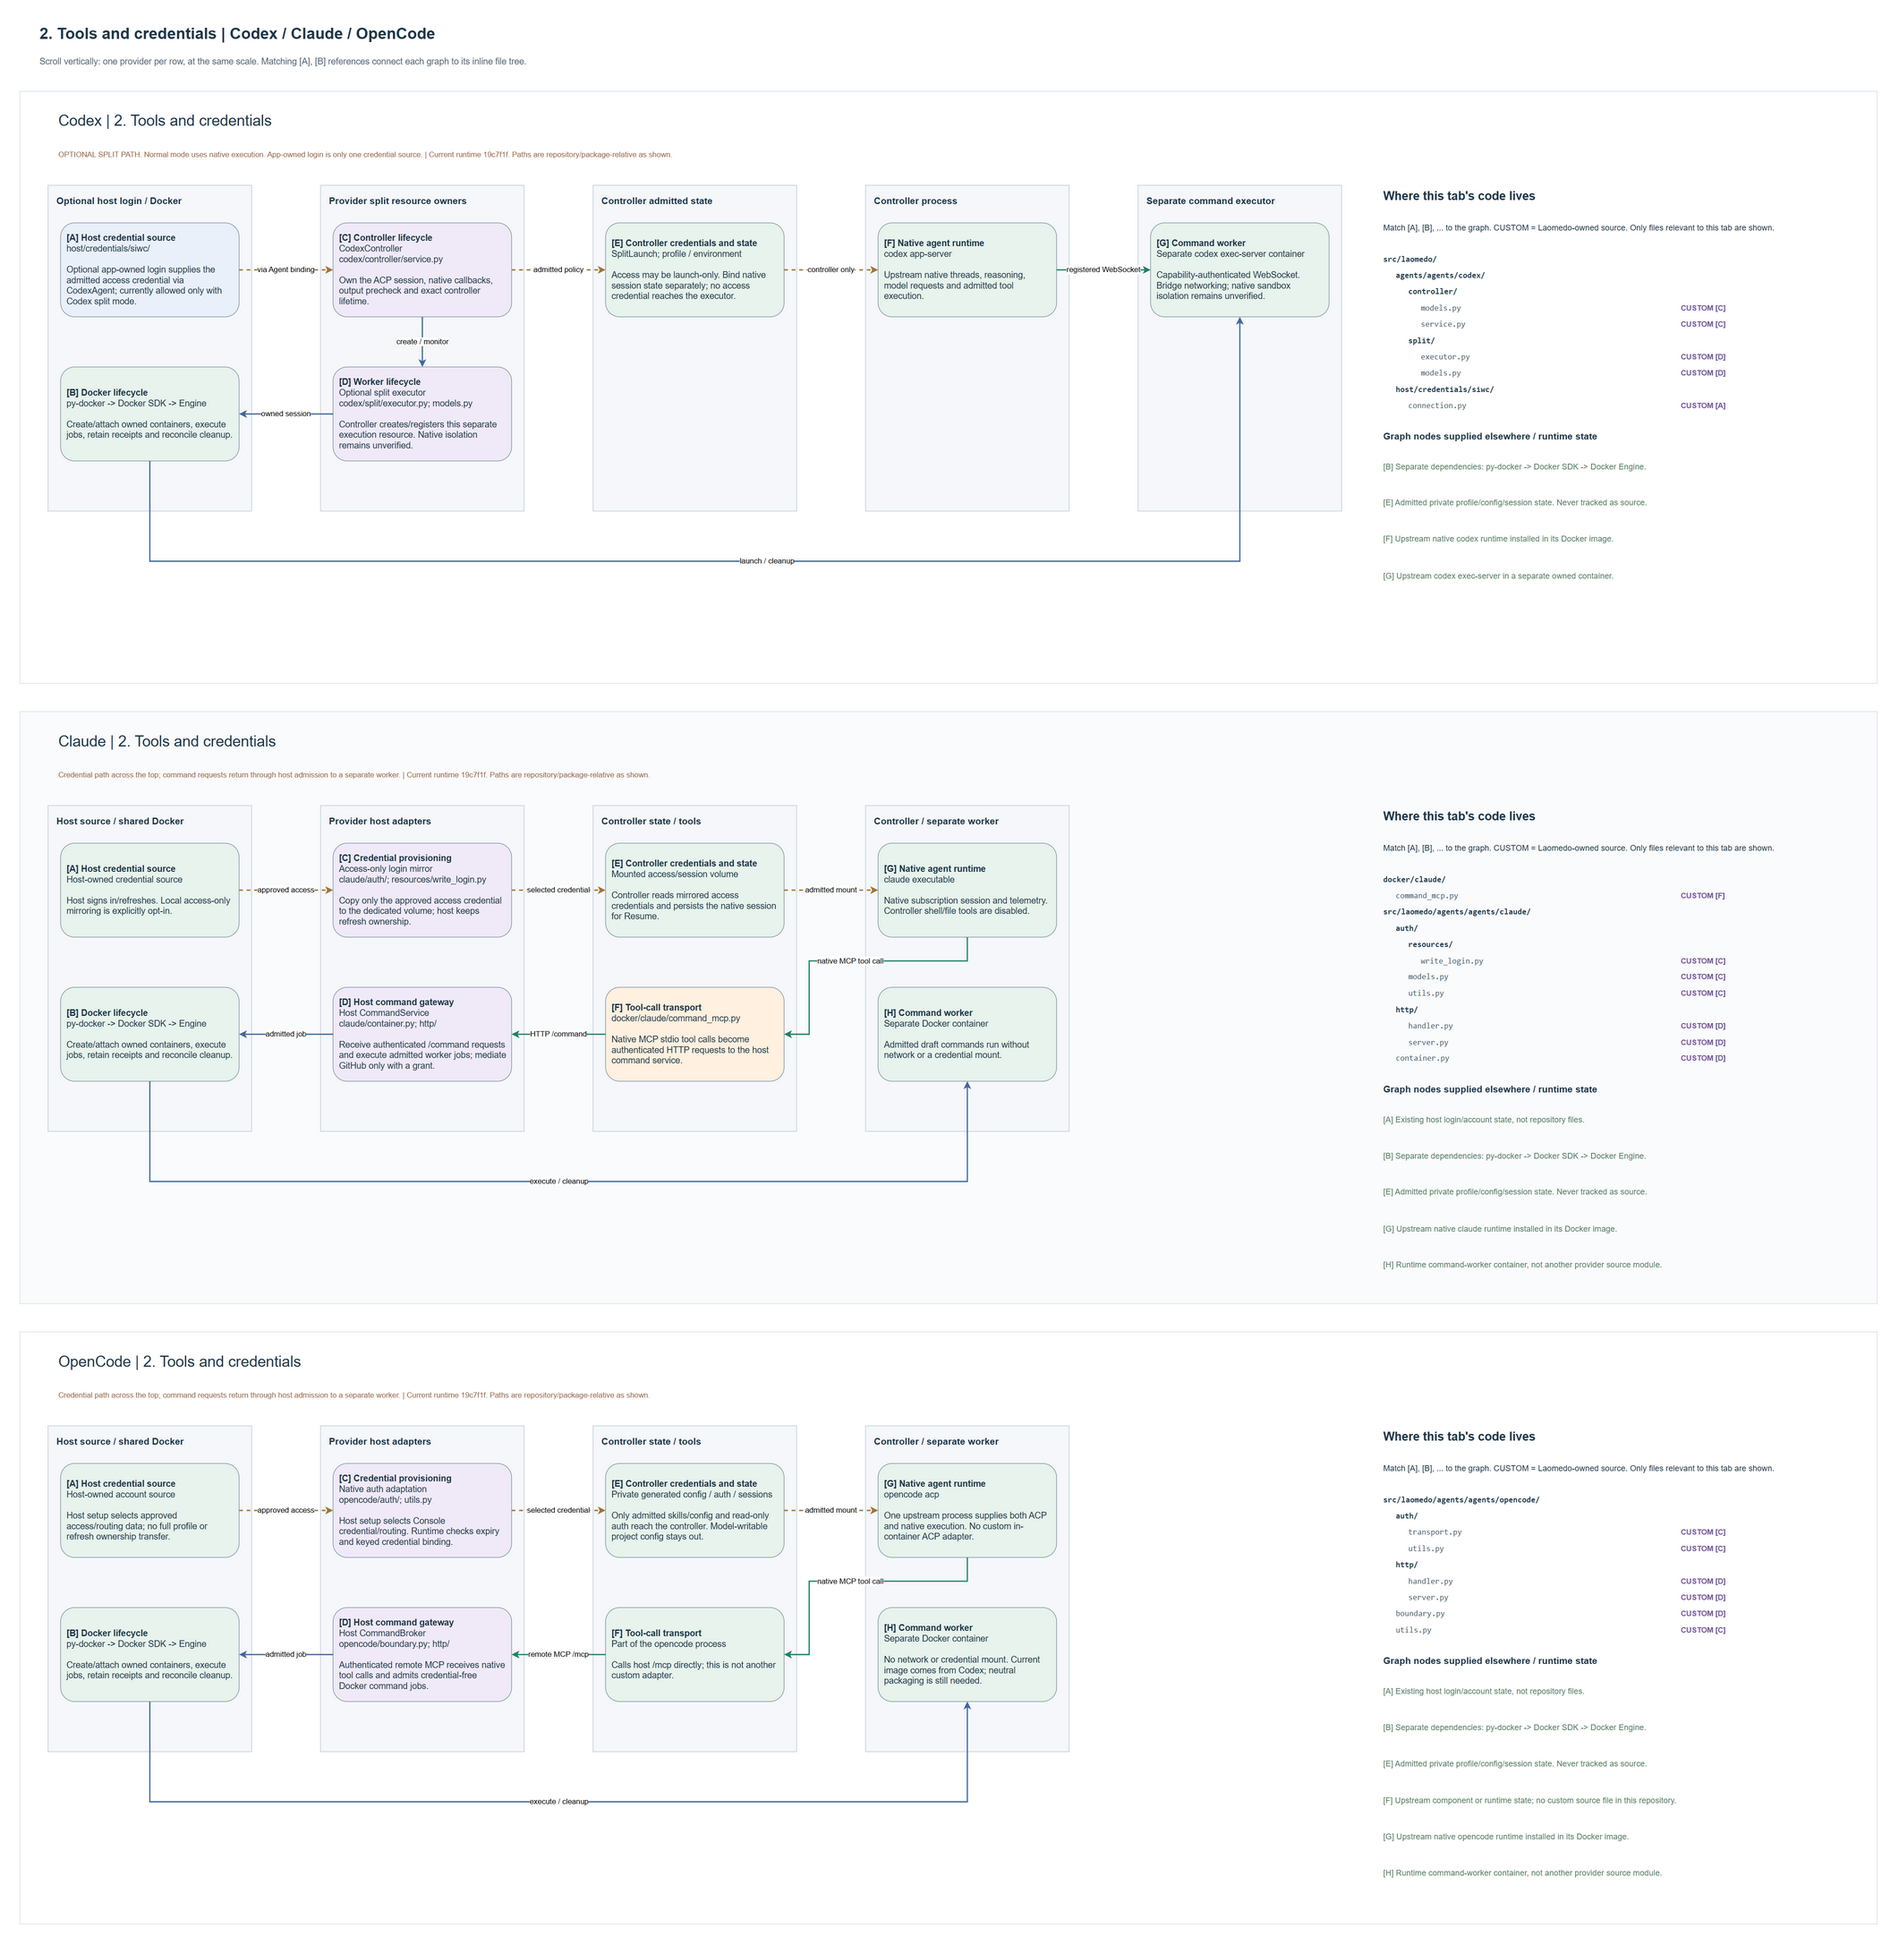
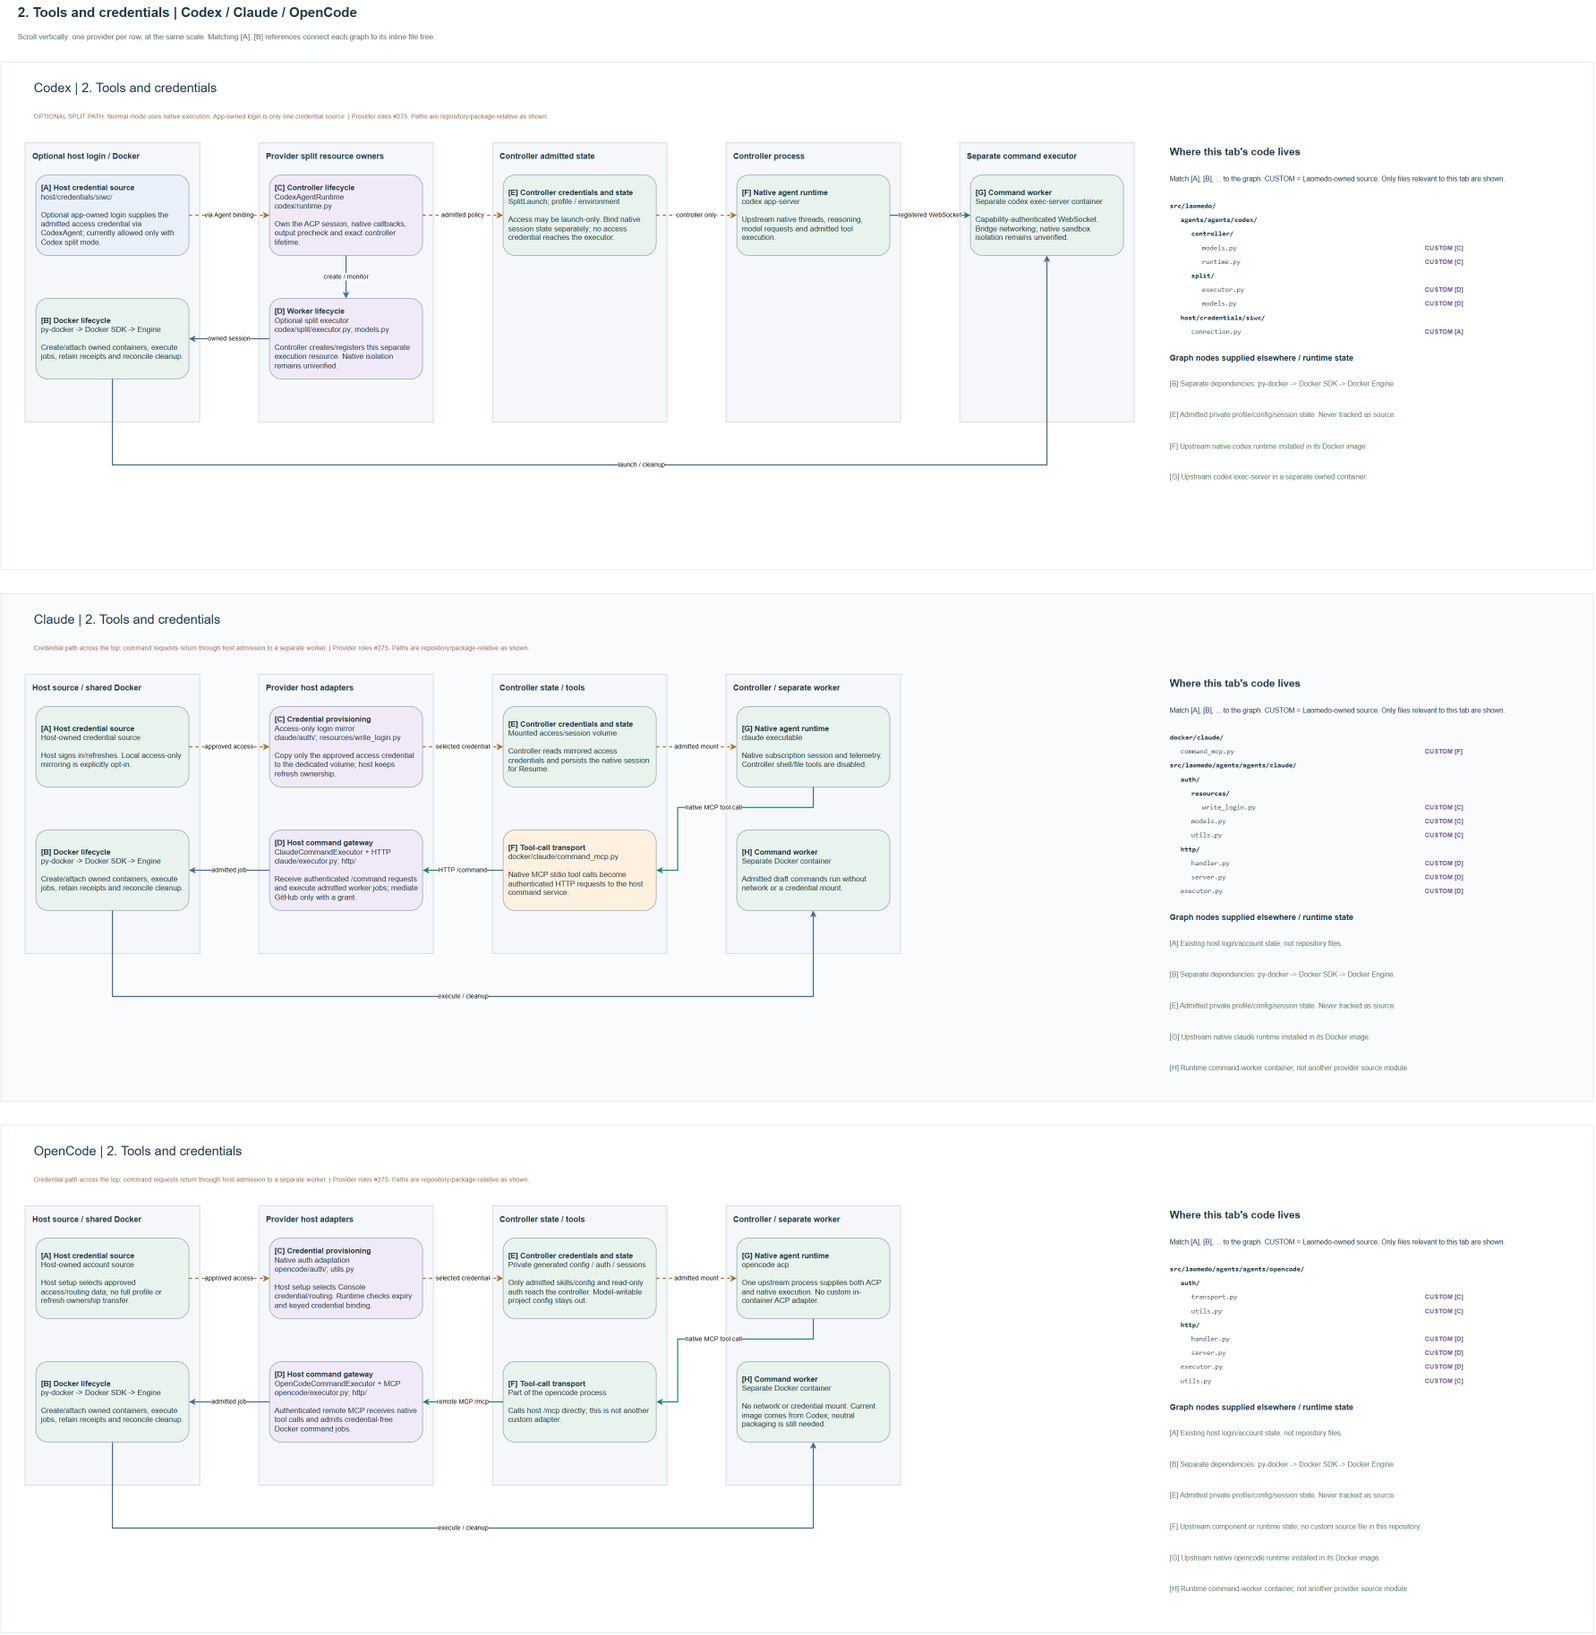
Clarify inactive runtime observations and refresh provider diagrams (#275)

diff --git a/src/laomedo/agents/agents/opencode/runtime.py b/src/laomedo/agents/agents/opencode/runtime.py
@@ -325,7 +325,6 @@ class OpenCodeAgentRuntime(BaseAgentRuntime):
         from py_docker.sessions.models import ContainerSession
         from py_docker.streams.models import StreamLimits
 
-        self._cancelled = cancelled
         self.check_auth_fresh()
         receipt_path = self.receipts.joinpath(self.name + ".json")
         self.allocated_receipts.add(receipt_path)
@@ -339,6 +338,7 @@ class OpenCodeAgentRuntime(BaseAgentRuntime):
                 receipt_path=receipt_path,
             )
         )
+        self._cancelled = cancelled
         try:
             return asyncio.run(
                 self._run_acp(task, model, session_id, cancelled, capture, on_session)
@@ -436,7 +436,7 @@ class OpenCodeAgentRuntime(BaseAgentRuntime):
         """Do not infer a controller process or ACP readiness from a prepared environment."""
         return RuntimeObservation(
             provider="opencode",
-            launched=self.session is not None,
+            launched=self.session is not None and not self.closing,
             ready=None,
             native_session=getattr(self, "_native_session", None),
         )

diff --git a/src/laomedo/agents/agents/claude/runtime.py b/src/laomedo/agents/agents/claude/runtime.py
@@ -56,11 +56,10 @@ class ClaudeAgentRuntime(BaseAgentRuntime):
 
     def request_cancel(self) -> CancellationObservation:
         """Signal the existing prompt flag without claiming native interruption."""
-        if self._cancelled is not None:
-            self._cancelled.set()
-        return CancellationObservation(
-            requested=self._cancelled is not None, confirmed=None
-        )
+        flag = self._cancelled if not self._closed else None
+        if flag is not None:
+            flag.set()
+        return CancellationObservation(requested=flag is not None, confirmed=None)
 
     async def shutdown(self) -> CleanupObservation:
         """Close the exact turn context or propagate native cleanup uncertainty."""

diff --git a/src/laomedo/agents/agents/codex/runtime.py b/src/laomedo/agents/agents/codex/runtime.py
@@ -454,8 +454,12 @@ class CodexAgentRuntime(BaseAgentRuntime):
         """Report launch separately from the independently completed ACP handshake."""
         return RuntimeObservation(
             provider="codex",
-            launched=self.session is not None,
-            ready=getattr(self, "_protocol_ready", False) or None,
+            launched=self.session is not None and not self._closed,
+            ready=(
+                (getattr(self, "_protocol_ready", False) or None)
+                if not self._closed
+                else None
+            ),
             native_session=self.active_thread_id,
         )
 

diff --git a/tests/test_agents/test_architecture/test_roles.py b/tests/test_agents/test_architecture/test_roles.py
@@ -76,6 +76,9 @@ class ProviderRoleTests(unittest.TestCase):
         self.assertIsNone(request.confirmed)
         self.assertTrue(asyncio.run(launched.runtime.shutdown()).confirmed)
         self.assertFalse(launched.runtime.observe().launched)
+        cancelled.clear()
+        self.assertFalse(launched.runtime.request_cancel().requested)
+        self.assertFalse(cancelled.is_set())
 
     def test_cleanup_uncertainty_survives_repeated_shutdown(self):
         """Already-closed is not evidence that a prior failed cleanup succeeded."""

diff --git a/docs/features/agents/assets/provider-interactions/README.md b/docs/features/agents/assets/provider-interactions/README.md
@@ -77,9 +77,9 @@ and the presence of local images do not close those gaps.
   composes `connect_to_agent` from the ACP Python SDK.
 - [Docker transport](../../../../../src/laomedo/agents/agents/base/acp/transport.py)
   adapts the existing py-docker session's input/output; it creates no container.
-- [Codex controller](../../../../../src/laomedo/agents/agents/codex/controller/service.py),
+- [Codex controller](../../../../../src/laomedo/agents/agents/codex/runtime.py),
   [Claude Agent](../../../../../src/laomedo/agents/agents/claude/agent.py) and
-  [OpenCode boundary](../../../../../src/laomedo/agents/agents/opencode/boundary.py)
+  [OpenCode boundary](../../../../../src/laomedo/agents/agents/opencode/runtime.py)
   compose the shared communication with native launch/policy and closure.
 - [Codex Docker recipe](../../../../../docker/codex-acp/Dockerfile) builds the
   patched adapter; [Claude's recipe](../../../../../docker/claude/Dockerfile)

diff --git a/docs/architecture/agent-provider-parity-plan.md b/docs/architecture/agent-provider-parity-plan.md
@@ -29,6 +29,13 @@ to a new image, credential binding, policy or execution mode.
 
 ## Verified gaps and retained native differences
 
+The baseline column records the starting architecture, not an assertion that
+retired objects still exist. Issue #275 delivers explicit runtime, command,
+credential, discovery and Activity roles, with host-owned registration; see the
+[implemented contracts](../../src/laomedo/agents/agents/README.md#provider-role-contracts-275).
+Provider deployment parity and whole-pipeline lifecycle consolidation remain
+separate work. New fixture/structural coverage does not establish live parity.
+
 | Area | Baseline | Required outcome |
 | --- | --- | --- |
 | Docker packaging | OpenCode's recipe was archived at `dbc528af`; no maintained replacement. Codex folder names the protocol, Claude names the provider. | Provider-owned `docker/{codex,claude,opencode}` builds; checked versions and immutable runtime identity. |

diff --git a/src/laomedo/agents/agents/opencode/README.md b/src/laomedo/agents/agents/opencode/README.md
@@ -4,6 +4,13 @@
 The implementation is in `agent.py`; folder and object renaming do not
 remove its whole-pipeline overrides.
 
+`OpenCodeAgentRuntime` in `runtime.py` owns the configured attempt environment and
+exact native session. `OpenCodeCommandExecutor` in `executor.py` owns workers;
+`http/broker.py` only adapts MCP. `OpenCodeCredentialProvider` in `credentials.py`
+validates the borrowed native profile. `OpenCodeModelCatalog` in `catalog.py` owns
+zero-turn discovery; `OpenCodeActivityProjector` in `activity/projector.py` owns
+native interpretation and pricing. See the [role methods](../README.md#provider-role-contracts-275).
+
 The controller and broker span an attempt. Native history export follows confirmed closure and precedes the final freeze. Output requirements are currently unsupported.
 
 | Method vocabulary | Provider contract |

diff --git a/src/laomedo/agents/agents/codex/README.md b/src/laomedo/agents/agents/codex/README.md
@@ -4,6 +4,13 @@
 The implementation is in `agent.py`; folder and object renaming do not
 remove its whole-pipeline overrides.
 
+`CodexAgentRuntime` in `runtime.py` owns exact controller lifetime and composes
+shared ACP communication. `CodexCommandExecutor` in `split/executor.py` owns the
+optional split command scope. `CodexCredentialProvider` in `credentials.py`
+borrows host-native access; `CodexModelCatalog` in `catalog.py` owns discovery.
+`CodexActivityProjector` in `activity/projector.py` owns native interpretation and
+the pinned pricing catalogue. See the [role methods](../README.md#provider-role-contracts-275).
+
 A controller and optional executor span the attempt and output corrections. Native precheck and split-executor guards remain explicit.
 
 | Method vocabulary | Provider contract |

diff --git a/src/laomedo/agents/agents/opencode/http/README.md b/src/laomedo/agents/agents/opencode/http/README.md
@@ -1,7 +1,9 @@
 # BrokerHttpServer HTTP collaborators
 
-`BrokerHttpServer` binds the existing listener to one explicit `CommandBroker`
-instance. `BrokerRequestHandler` implements its framework `do_POST` callback using
+`BrokerHttpServer` binds the existing listener to one `OpenCodeCommandBroker`
+from `broker.py`. It adapts MCP requests to `OpenCodeCommandExecutor` in
+`../executor.py`; the executor owns worker admission, deadlines and receipts.
+`BrokerRequestHandler` implements its framework `do_POST` callback using
 that owner; request state is not captured by a nested class or mutable global.
 `server_close` / `shutdown` retain the existing HTTP server lifecycle meanings.
 The caller retains responsibility for thread startup, cancellation and exact cleanup.
